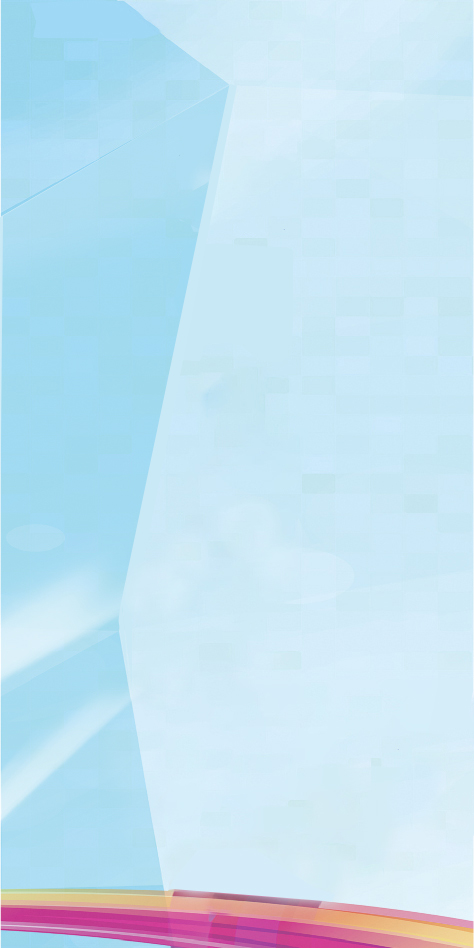
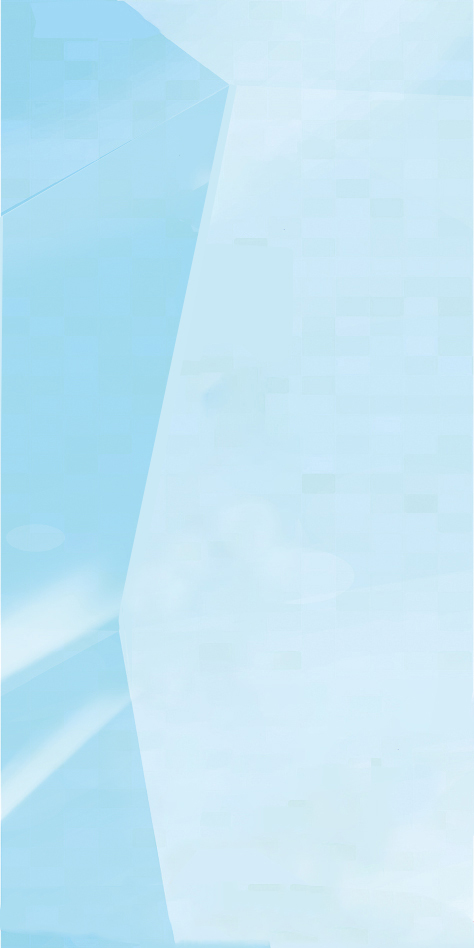
feat:cc

Changed region(s): [[0.0, 0.9177, 1.0, 1.0]]

diff --git a/src/views/Index.vue b/src/views/Index.vue
@@ -190,10 +190,10 @@ export default class Index extends Vue {
 .bg_view {
   background-image: url('../assets/images/WechatIMG424.jpeg');
   background-repeat: no-repeat;
-  height: calc(#{$height-primary} - constant(safe-area-inset-bottom) - 200px);
-  height: calc(#{$height-primary} - env(safe-area-inset-bottom) - 200px);
+  height: calc(#{$height-primary} - constant(safe-area-inset-bottom) - 100px);
+  height: calc(#{$height-primary} - env(safe-area-inset-bottom) - 100px);
   position: relative;
-  background-size: 100% 100%;
+  height: 1;
 }
 .bg_scroll {
   height: calc(#{$height-primary} - constant(safe-area-inset-bottom) - 100px);
